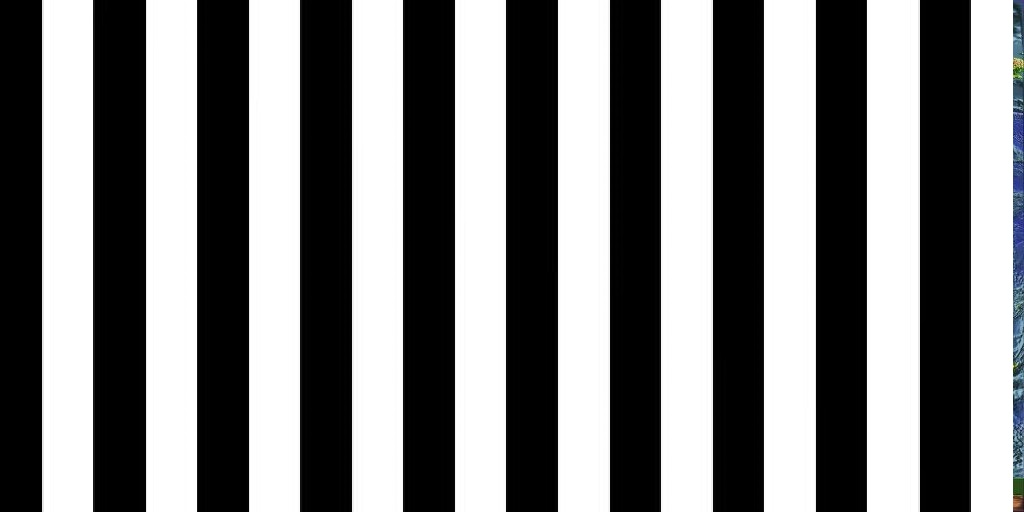
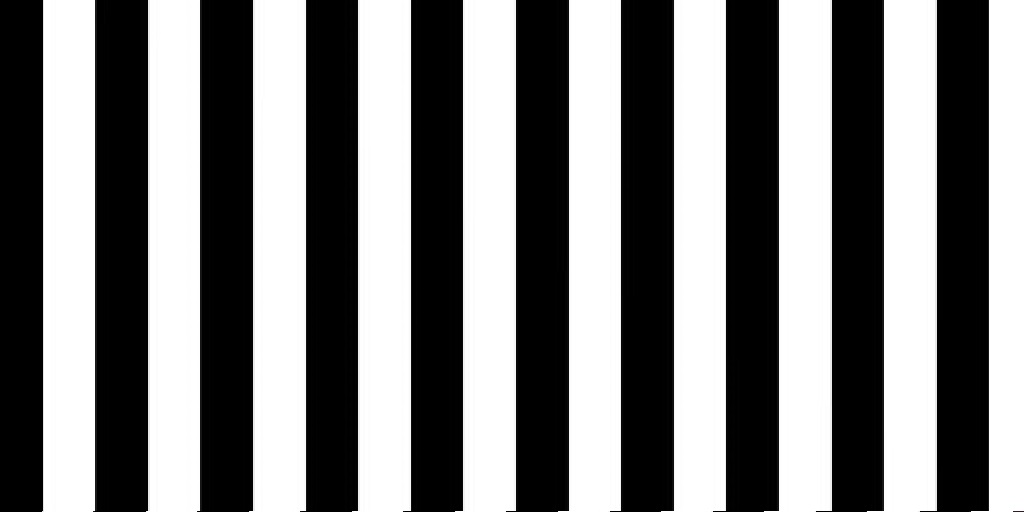
8

diff --git a/basic-objects-IFS.js b/basic-objects-IFS.js
@@ -281,15 +281,15 @@ function uvTorus(outerRadius, innerRadius, slices, stacks) {
 
 
 function other(outerRadius, innerRadius, slices, stacks) {
-   outerRadius = outerRadius || 0.5;
+    outerRadius = outerRadius || 5;
    innerRadius = innerRadius || outerRadius/3;
    slices = slices || 32;
    stacks = stacks || 16;
-   var vertexCount = (slices+4)*(stacks+4);
-   var vertices = new Float32Array( 3*vertexCount );
-   var normals = new Float32Array( 3* vertexCount );
-   var texCoords = new Float32Array( 2*vertexCount );
-   var indices = new Uint16Array( 2*slices*stacks*3 );
+   var vertexCount = (slices+1)*(stacks+1);
+   var vertices = new Float32Array( 6*vertexCount );
+   var normals = new Float32Array( 6* vertexCount );
+   var texCoords = new Float32Array( 4*vertexCount );
+   var indices = new Uint16Array( 4*slices*stacks*6 );
    var du = 2*Math.PI/slices;
    var dv = 2*Math.PI/stacks;
    var centerRadius = (innerRadius+outerRadius)/2;
@@ -331,6 +331,53 @@ function other(outerRadius, innerRadius, slices, stacks) {
           indices[k++] = row2 + i + 1;
       }
    }
+
+
+   //----------------------------------
+    outerRadius =  10;
+   innerRadius = innerRadius || outerRadius/3;
+   slices = slices || 32;
+   stacks = stacks || 16;
+   var du = 2*Math.PI/slices;
+   var dv = 2*Math.PI/stacks;
+   var centerRadius = (innerRadius+outerRadius)/2;
+   var tubeRadius = outerRadius - centerRadius;
+   var i,j,u,v,cx,cy,sin,cos,x,y,z;
+   for (j = 0; j <= stacks; j++) {
+      v = -Math.PI + j*dv;
+      cos = Math.cos(v);
+      sin = Math.sin(v);
+      for (i = 0; i <= slices; i++) {
+         u = i*du;
+         cx = Math.cos(u);
+         cy = Math.sin(u);
+         x = cx*(centerRadius + tubeRadius*cos);
+         y = cy*(centerRadius + tubeRadius*cos);
+         z = sin*tubeRadius;
+         vertices[indexV] = x;
+         normals[indexV++] = cx*cos;
+         vertices[indexV] = y
+         normals[indexV++] = cy*cos;
+         vertices[indexV] = z
+         normals[indexV++] = sin;
+         texCoords[indexT++] = i/slices;
+         texCoords[indexT++] = j/stacks;
+      } 
+   }
+   var k = 0;
+   for (j = 0; j < stacks; j++) {
+      var row1 = j*(slices+1);
+      var row2 = (j+1)*(slices+1);
+      for (i = 0; i < slices; i++) {
+          indices[k++] = row1 + i;
+          indices[k++] = row2 + i + 1;
+          indices[k++] = row2 + i;
+          indices[k++] = row1 + i;
+          indices[k++] = row1 + i + 1;
+          indices[k++] = row2 + i + 1;
+      }
+   }
+   //----------------------------------
    return {
        vertexPositions: vertices,
        vertexNormals: normals,
@@ -338,6 +385,83 @@ function other(outerRadius, innerRadius, slices, stacks) {
        indices: indices
    };
 }
+
+
+
+function newring(innerRadius, outerRadius, slices) {
+   if (arguments.length == 0)
+      innerRadius = 0.25;
+   outerRadius = outerRadius || innerRadius * 2 || 0.5;
+   slices = slices || 32;
+   var vertexCount, vertices, normals, texCoords, indices, i;
+   vertexCount = (innerRadius == 0)? slices + 1 : slices * 2;
+   vertices = new Float32Array( 3*vertexCount );
+   normals = new Float32Array( 3* vertexCount );
+   texCoords = new Float32Array( 2*vertexCount );
+   indices = new Uint16Array( innerRadius == 0 ?  3*slices : 3*2*slices );
+   var d = 2*Math.PI/slices;
+   var k = 0;
+   var t = 0;
+   var n = 0;
+   if (innerRadius == 0) {
+      for (i = 0; i < slices; i++) {
+         c = Math.cos(d*i);
+         s = Math.sin(d*i);
+         vertices[k++] = c*outerRadius;
+         vertices[k++] = s*outerRadius;
+         vertices[k++] = 0;
+         texCoords[t++] = 0.5 + 0.5*c;
+         texCoords[t++] = 0.5 + 0.5*s;
+         indices[n++] = slices;
+         indices[n++] = i;
+         indices[n++] = i == slices-1 ? 0 : i + 1;
+      }
+      vertices[k++] = vertices[k++] = vertices[k++] = 0;
+      texCoords[t++] = texCoords[t++] = 0;
+   }
+   else {
+      var r = innerRadius / outerRadius;
+      for (i = 0; i < slices; i++) {
+         c = Math.cos(d*i);
+         s = Math.sin(2*d*i);
+         vertices[k++] = c*innerRadius;
+         vertices[k++] = s*innerRadius;
+         vertices[k++] = 0;
+         texCoords[t++] = 0.5 + 0.5*c*r;
+         texCoords[t++] = 0.5 + 0.5*s*r;
+         vertices[k++] = c*outerRadius;
+         vertices[k++] = s*outerRadius;
+         vertices[k++] = 0;
+         texCoords[t++] = 0.5 + 0.5*c;
+         texCoords[t++] = 0.5 + 0.5*s;
+      }
+      for (i = 0; i < slices - 1; i++) {
+         indices[n++] = 2*i;
+         indices[n++] = 2*i+1;
+         indices[n++] = 2*i+3;
+         indices[n++] = 2*i;
+         indices[n++] = 2*i+3;
+         indices[n++] = 2*i+2;
+      }
+      indices[n++] = 2*i;
+      indices[n++] = 2*i+1;
+      indices[n++] = 1;
+      indices[n++] = 2*i;
+      indices[n++] = 1;
+      indices[n++] = 0;
+   }
+   for (i = 0; i < vertexCount; i++) {
+      normals[3*i] = normals[3*i+1] = 0;
+      normals[3*i+2] = 1;
+   }
+   return {
+       vertexPositions: vertices,
+       vertexNormals: normals,
+       vertexTextureCoords: texCoords,
+       indices: indices
+   };
+}
+
 
 /**
  * Defines a model of a cylinder.  The axis of the cylinder is the z-axis,

diff --git a/index.html b/index.html
@@ -195,7 +195,7 @@ function installModel() {
 
      }
      else if(model == "Other"){
-        modelData = other(6,12,64);
+        modelData = newring(10, 20,64);
        
      }
      gl.bindBuffer(gl.ARRAY_BUFFER, aCoordsBuffer);
@@ -339,7 +339,7 @@ function init() {
       <option value="0">earth</option>
       <option value="1">night earth</option>
       <option value="2" selected="selected">brick</option>
-      <option value="3">clouds</option>
+      <option value="3">stripes</option>
 
    </select>
    <label for="litCheckbox" style="margin-left:1cm">Lit</label>
